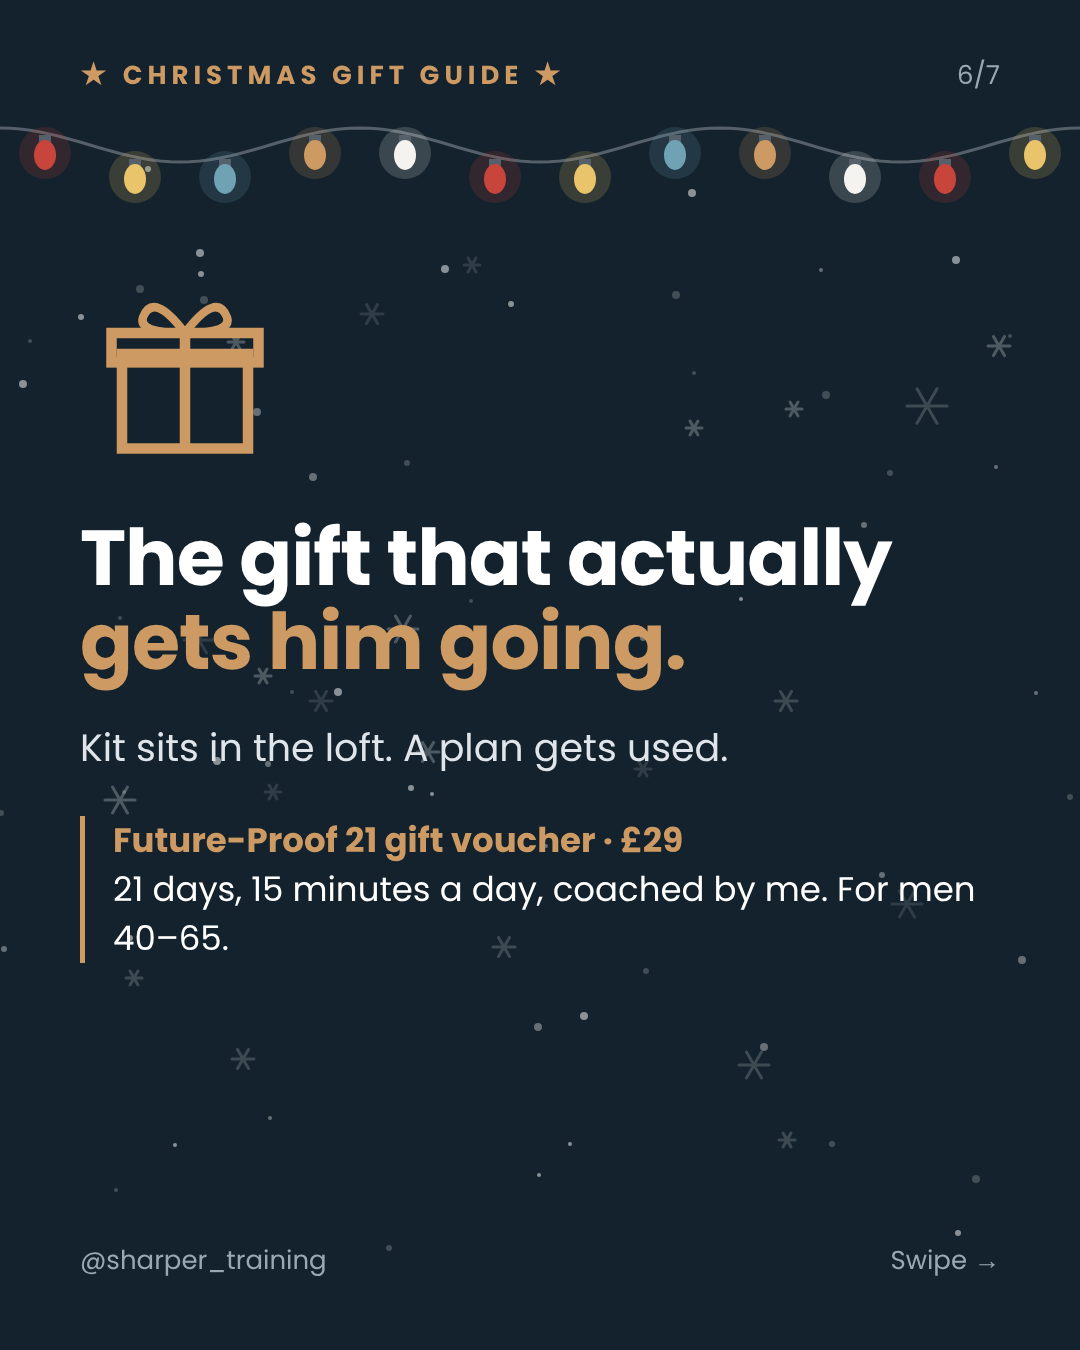
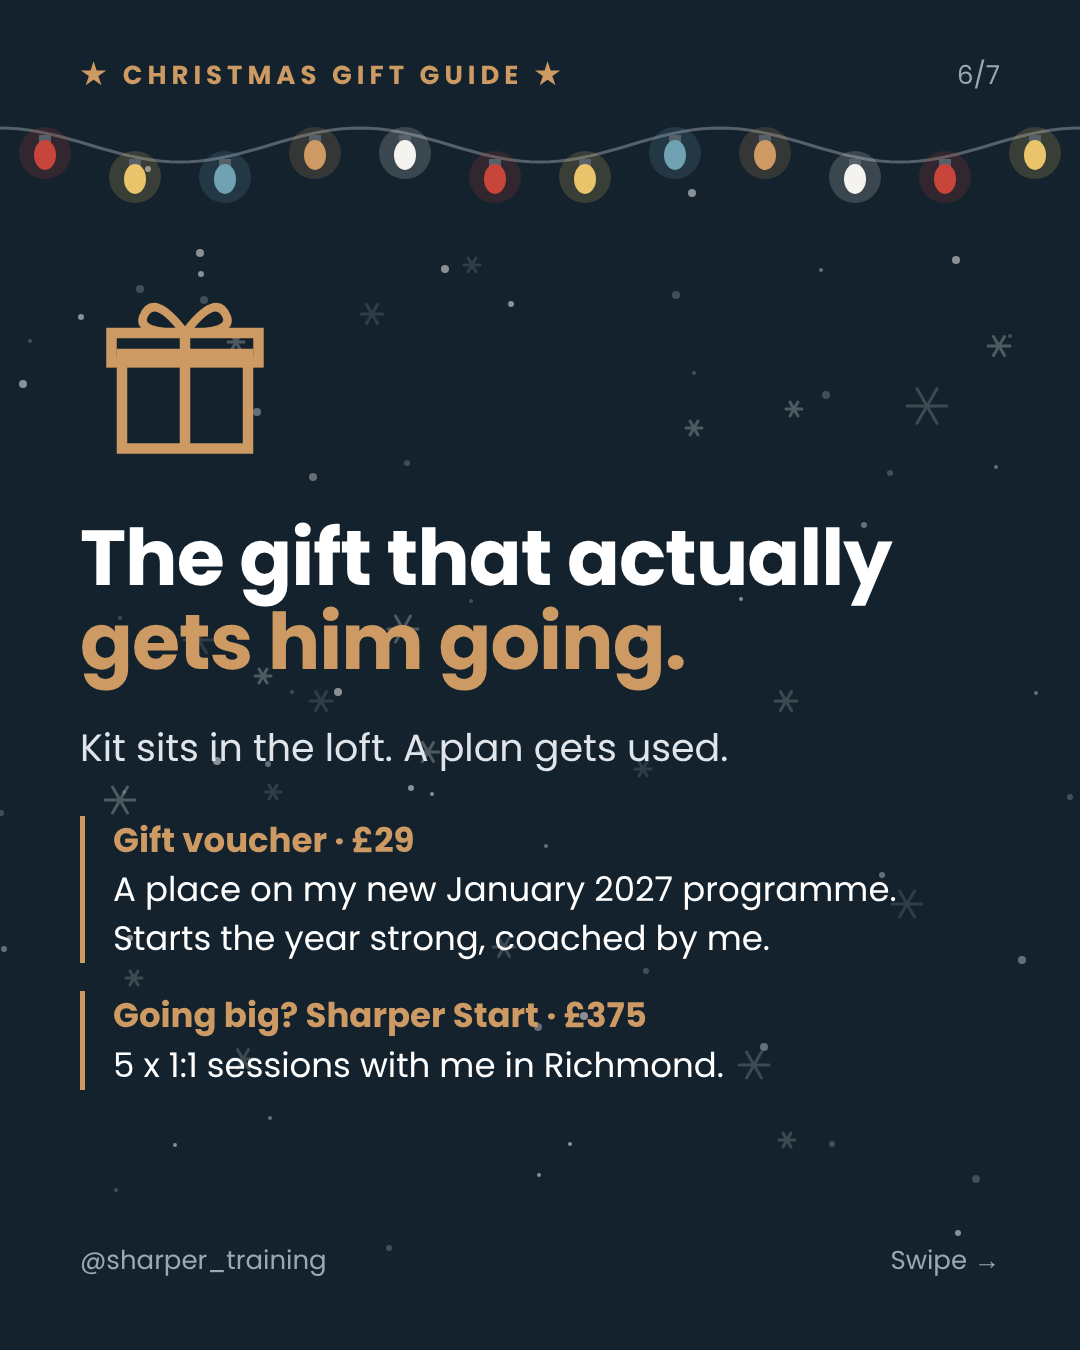
Vouchers: January 2027 programme £29 + Sharper Start £375
Claude-Session: https://claude.ai/code/session_012LCnCD88AANwuQDPY5vt15

Changed region(s): [[0.0611, 0.5911, 0.9167, 0.8089]]

diff --git a/gifts/index.html b/gifts/index.html
@@ -97,12 +97,19 @@ footer p+p{margin-top:8px}
   <aside class="voucher" id="voucher">
     <div>
       <h2>Kit sits in the loft. A plan gets used.</h2>
-      <p>Future-Proof 21 is my 21-day online programme for men 40 to 65: 15 minutes a day, strength, mobility and breathing, coached by me. The voucher comes as a printable card you can wrap.</p>
+      <p>Give him a voucher for my new January 2027 programme, coached by me, or go big with five 1:1 sessions in Richmond. You get a printable voucher to wrap. Valid for 12 months.</p>
     </div>
-    <div class="ticket">
-      <div class="amt">£29</div>
-      <div class="what">Future-Proof 21 gift voucher</div>
-      <a class="btn" href="https://ig.me/m/sharper_training">DM me "FUTURE" for one</a>
+    <div style="display:grid;gap:14px">
+      <div class="ticket">
+        <div class="amt">£29</div>
+        <div class="what">A place on my new January programme</div>
+        <a class="btn" href="https://ig.me/m/sharper_training">DM me "FUTURE" for one</a>
+      </div>
+      <div class="ticket">
+        <div class="amt">£375</div>
+        <div class="what">Sharper Start: 5 x 1:1 sessions</div>
+        <a class="btn" href="https://ig.me/m/sharper_training">DM me "FUTURE" for one</a>
+      </div>
     </div>
   </aside>
 </div>
